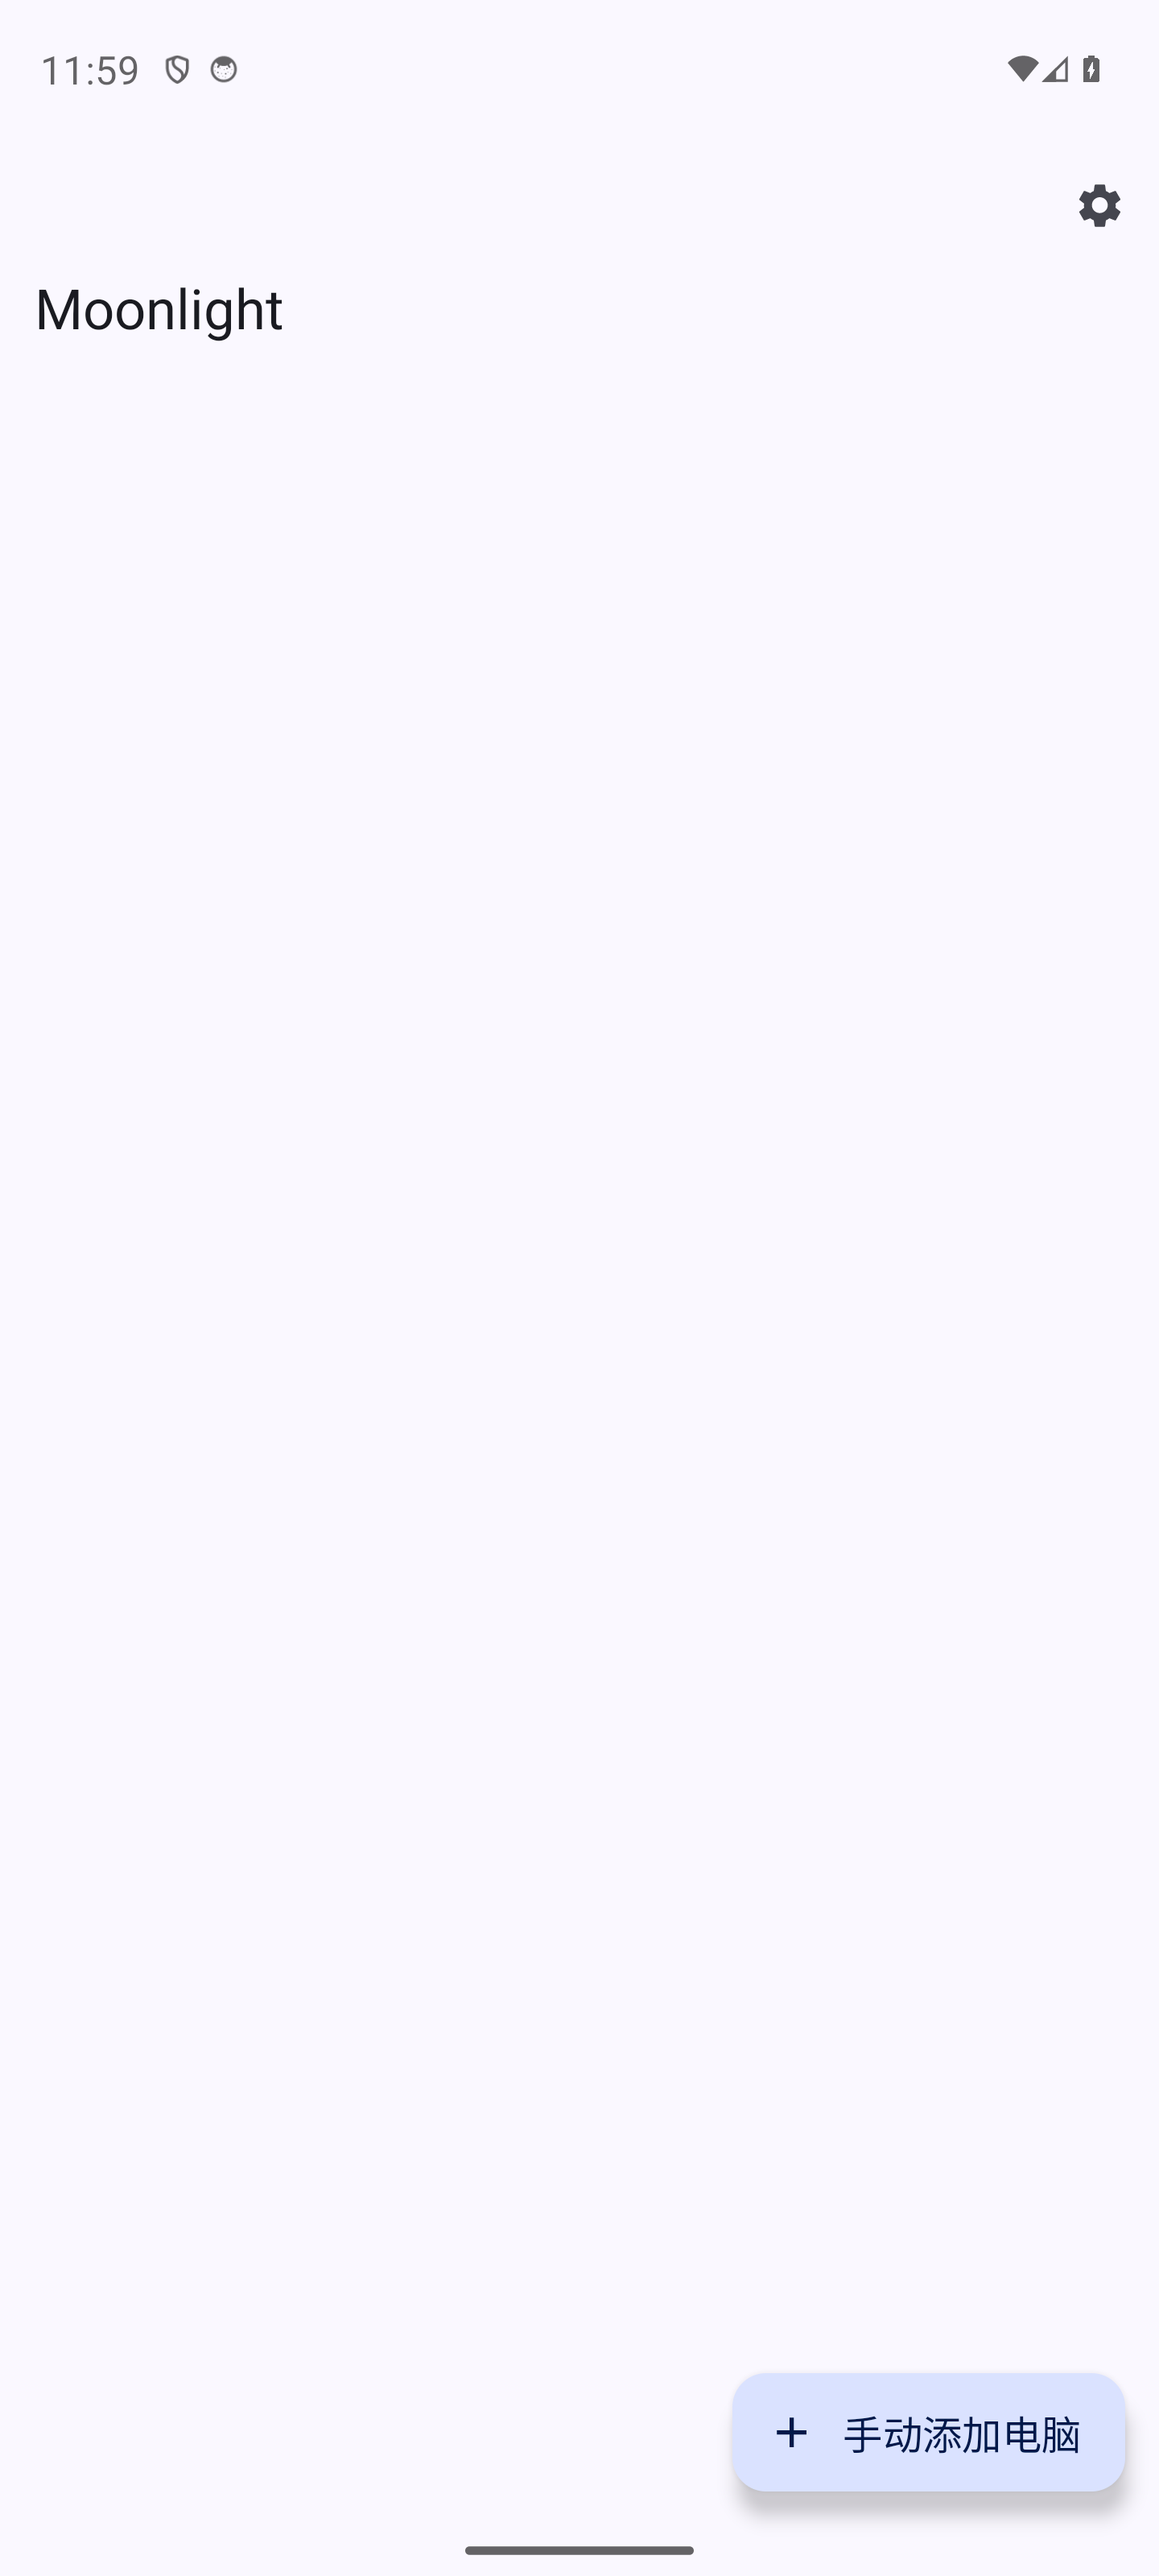
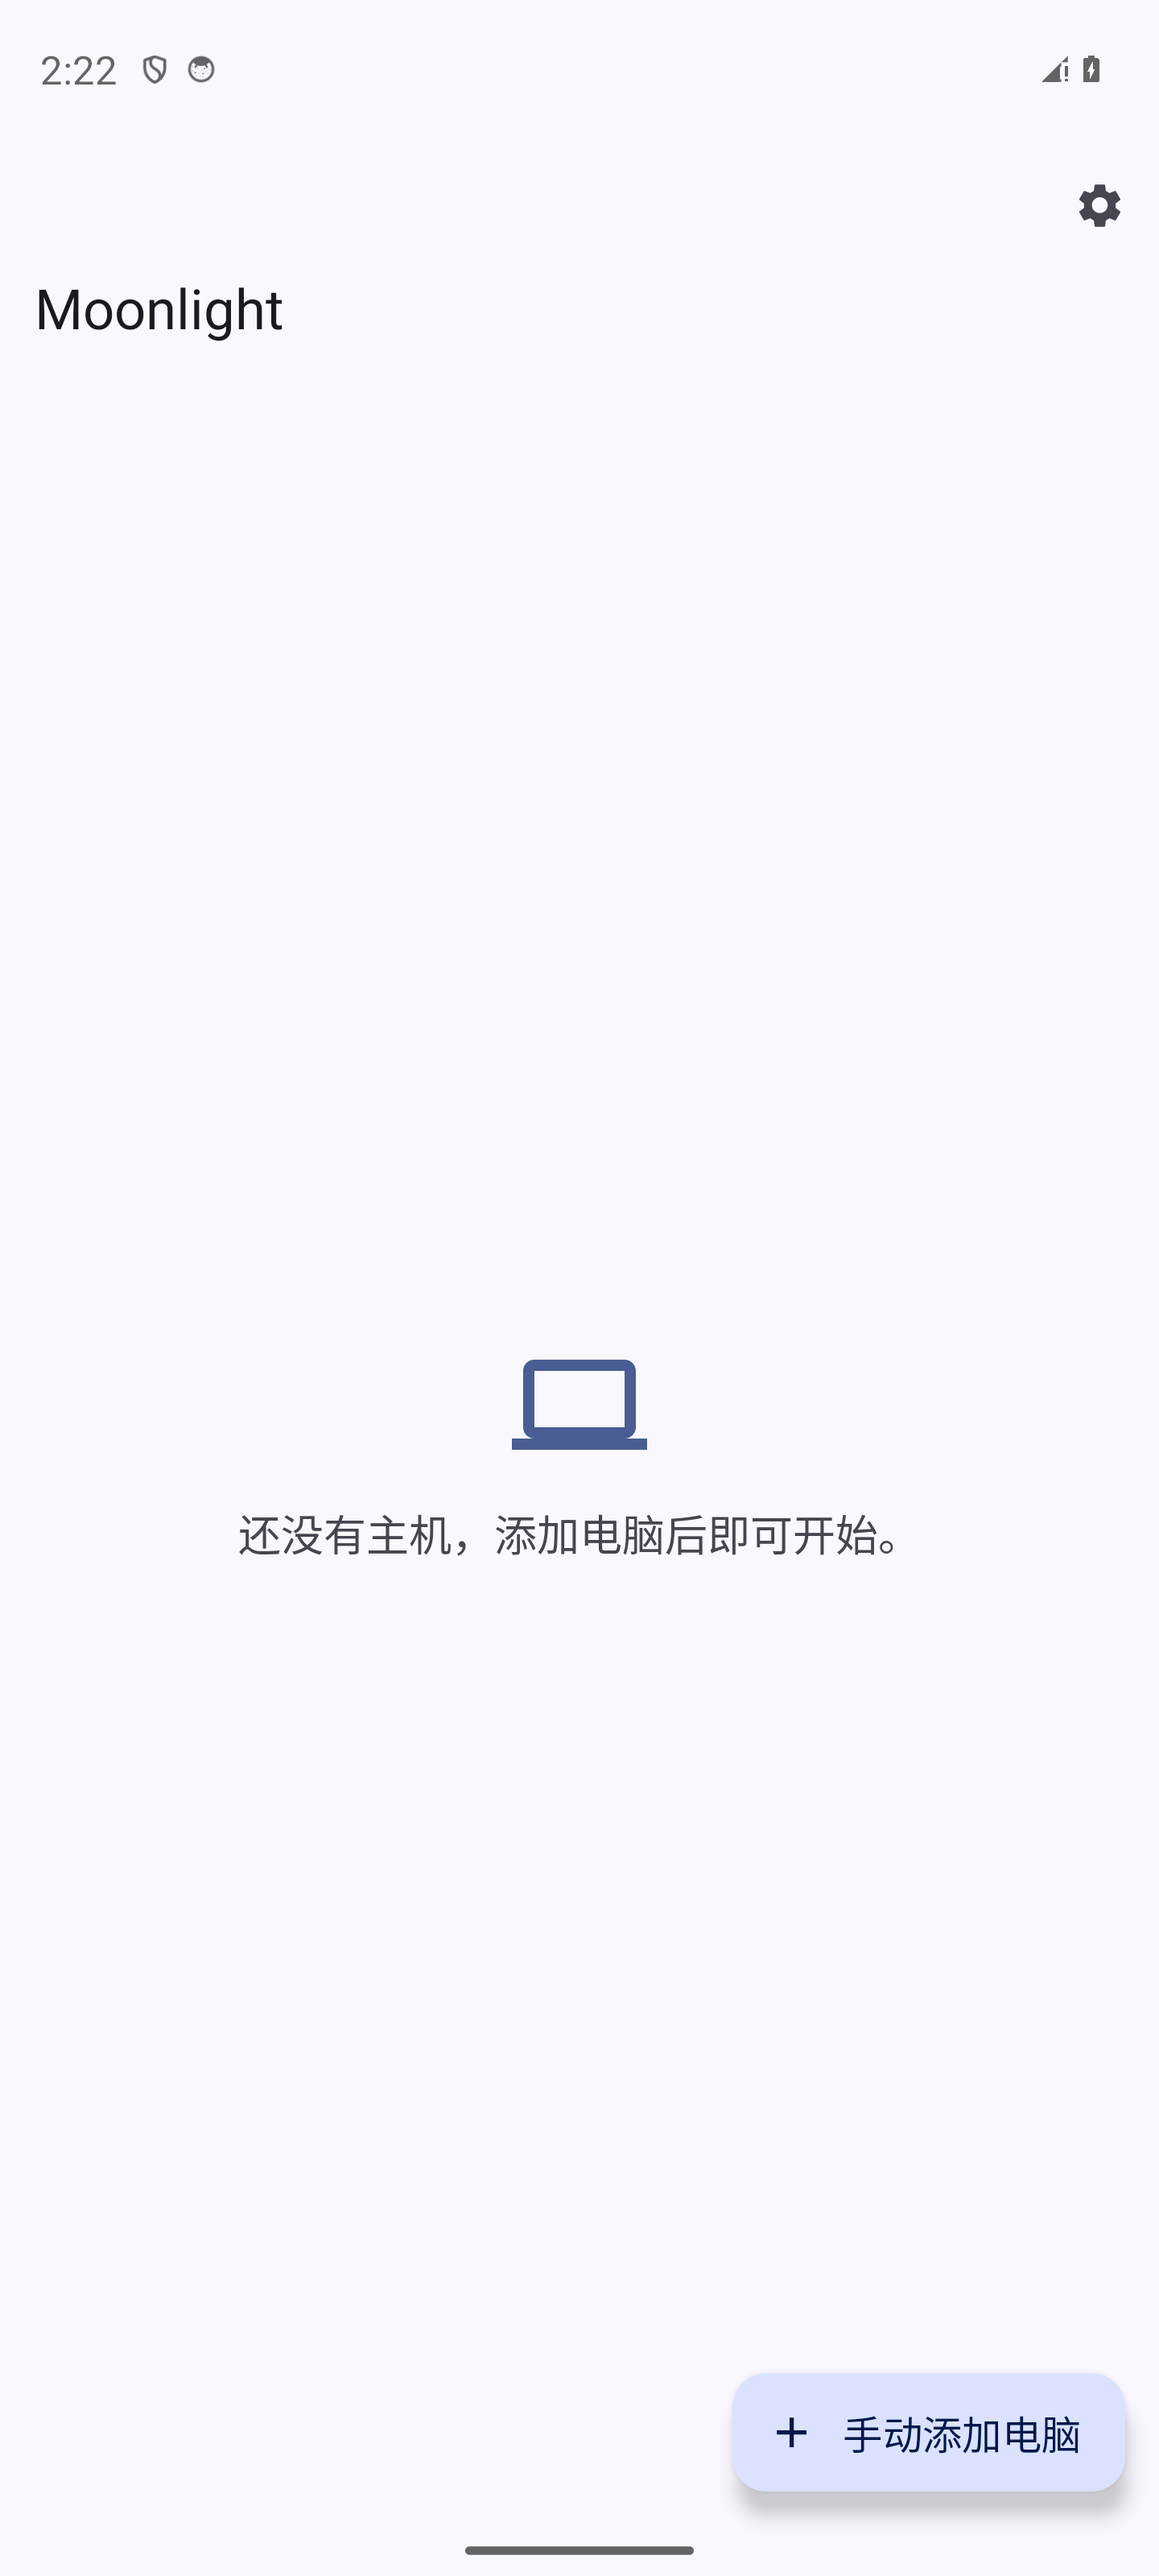
Fix host empty state readiness

diff --git a/app/src/main/java/com/limelight/PcView.java b/app/src/main/java/com/limelight/PcView.java
@@ -110,6 +110,17 @@ public class PcView extends BaseActivity {
         public void onServiceConnected(ComponentName className, IBinder binder) {
             ComputerManagerService.ComputerManagerBinder localBinder =
                     ((ComputerManagerService.ComputerManagerBinder)binder);
+
+            // The service loads its persisted host inventory before Android
+            // publishes this binder. Present the genuine empty state as soon
+            // as that inventory is known, without waiting for discovery or
+            // client-identity initialization. A non-zero count still keeps
+            // the host area empty until the initial snapshots arrive, so
+            // returning users never see a false "no hosts" state.
+            managerHasKnownHosts = localBinder.getHostCount() > 0;
+            hostListReady = true;
+            updateNoPcFoundVisibility();
+
             HostServiceBindingController controller =
                     hostBindingController;
             if (controller == null) {
